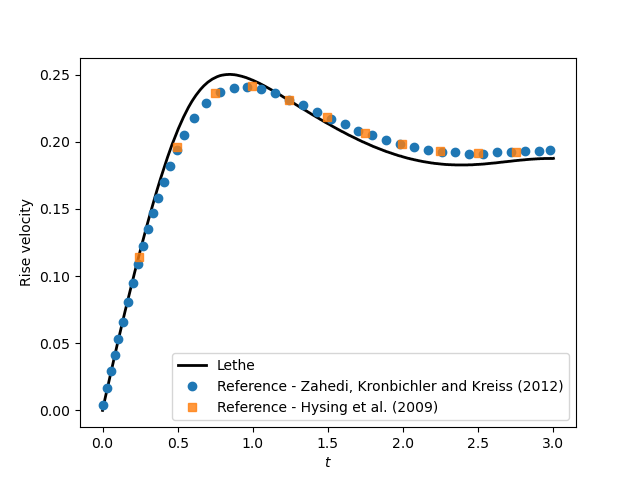
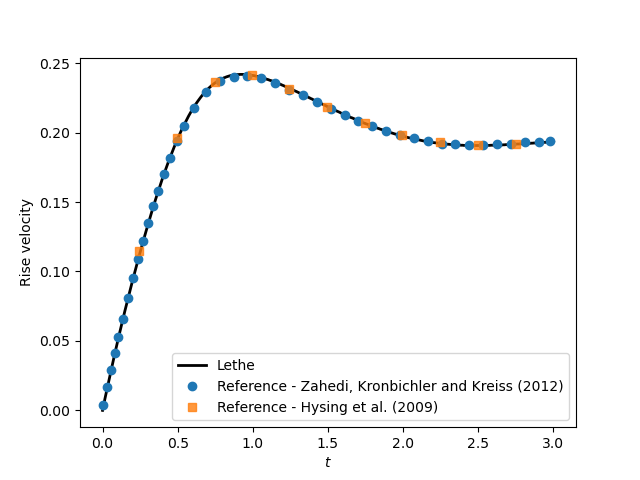
Fix curvature + surface tension value

diff --git a/source/solvers/vof.cc b/source/solvers/vof.cc
@@ -1617,29 +1617,31 @@ VolumeOfFluid<dim>::assemble_curvature_matrix_and_rhs(
                   phi_curvature_gradient[k] =
                     fe_values_curvature.shape_grad(k, q);
                 }
+
+              // Calculate phase gradient norm and add a tolerance to it to
+              // prevent illegal divisions
+              const double filtered_phase_fraction_gradient_norm =
+                filtered_phase_fraction_gradient_values[q].norm() + 1e-12;
+
               for (unsigned int i = 0; i < dofs_per_cell; ++i)
                 {
-                  if (filtered_phase_fraction_gradient_values[q].norm() >
-                      std::numeric_limits<double>::min())
+                  // Matrix assembly
+                  for (unsigned int j = 0; j < dofs_per_cell; ++j)
                     {
-                      // Matrix assembly
-                      for (unsigned int j = 0; j < dofs_per_cell; ++j)
-                        {
-                          local_matrix_curvature(i, j) +=
-                            (phi_curvature[j] * phi_curvature[i] +
-                             h * h * curvature_filter_factor *
-                               scalar_product(phi_curvature_gradient[i],
-                                              phi_curvature_gradient[j])) *
-                            fe_values_curvature.JxW(q);
-                        }
-                      // rhs
-
-                      local_rhs_curvature(i) +=
-                        phi_curvature_gradient[i] *
-                        (filtered_phase_fraction_gradient_values[q] /
-                         filtered_phase_fraction_gradient_values[q].norm()) *
+                      local_matrix_curvature(i, j) +=
+                        (phi_curvature[j] * phi_curvature[i] +
+                         h * h * curvature_filter_factor *
+                           scalar_product(phi_curvature_gradient[i],
+                                          phi_curvature_gradient[j])) *
                         fe_values_curvature.JxW(q);
                     }
+                  // rhs
+
+                  local_rhs_curvature(i) +=
+                    phi_curvature_gradient[i] *
+                    (filtered_phase_fraction_gradient_values[q] /
+                     filtered_phase_fraction_gradient_norm) *
+                    fe_values_curvature.JxW(q);
                 }
             }
 

diff --git a/source/solvers/navier_stokes_vof_assemblers.cc b/source/solvers/navier_stokes_vof_assemblers.cc
@@ -493,9 +493,6 @@ GLSNavierStokesVOFAssemblerSTF<dim>::assemble_rhs(
          RequiresConstantDensity(
            "GLSNavierStokesVOFAssemblerCore<dim>::assemble_matrix"));
 
-  const double phase_0_density = scratch_data.density_0[0];
-  const double phase_1_density = scratch_data.density_1[0];
-
   // Loop and quadrature informations
   const auto &       JxW        = scratch_data.JxW;
   const unsigned int n_q_points = scratch_data.n_q_points;
@@ -508,9 +505,6 @@ GLSNavierStokesVOFAssemblerSTF<dim>::assemble_rhs(
   // Loop over the quadrature points
   for (unsigned int q = 0; q < n_q_points; ++q)
     {
-      // Gather density
-      double density_eq = scratch_data.density[q];
-
       // Gather pfg and curvature values
       const double &        curvature_value = scratch_data.curvature_values[q];
       const Tensor<1, dim> &phase_gradient_value =
@@ -518,8 +512,7 @@ GLSNavierStokesVOFAssemblerSTF<dim>::assemble_rhs(
       const double JxW_value = JxW[q];
 
       const Tensor<1, dim> tmp_STF =
-        -2.0 * surface_tension_coef * curvature_value * phase_gradient_value *
-        (density_eq / (phase_0_density + phase_1_density));
+        -surface_tension_coef * curvature_value * phase_gradient_value;
 
       strong_residual[q] += tmp_STF;
 
